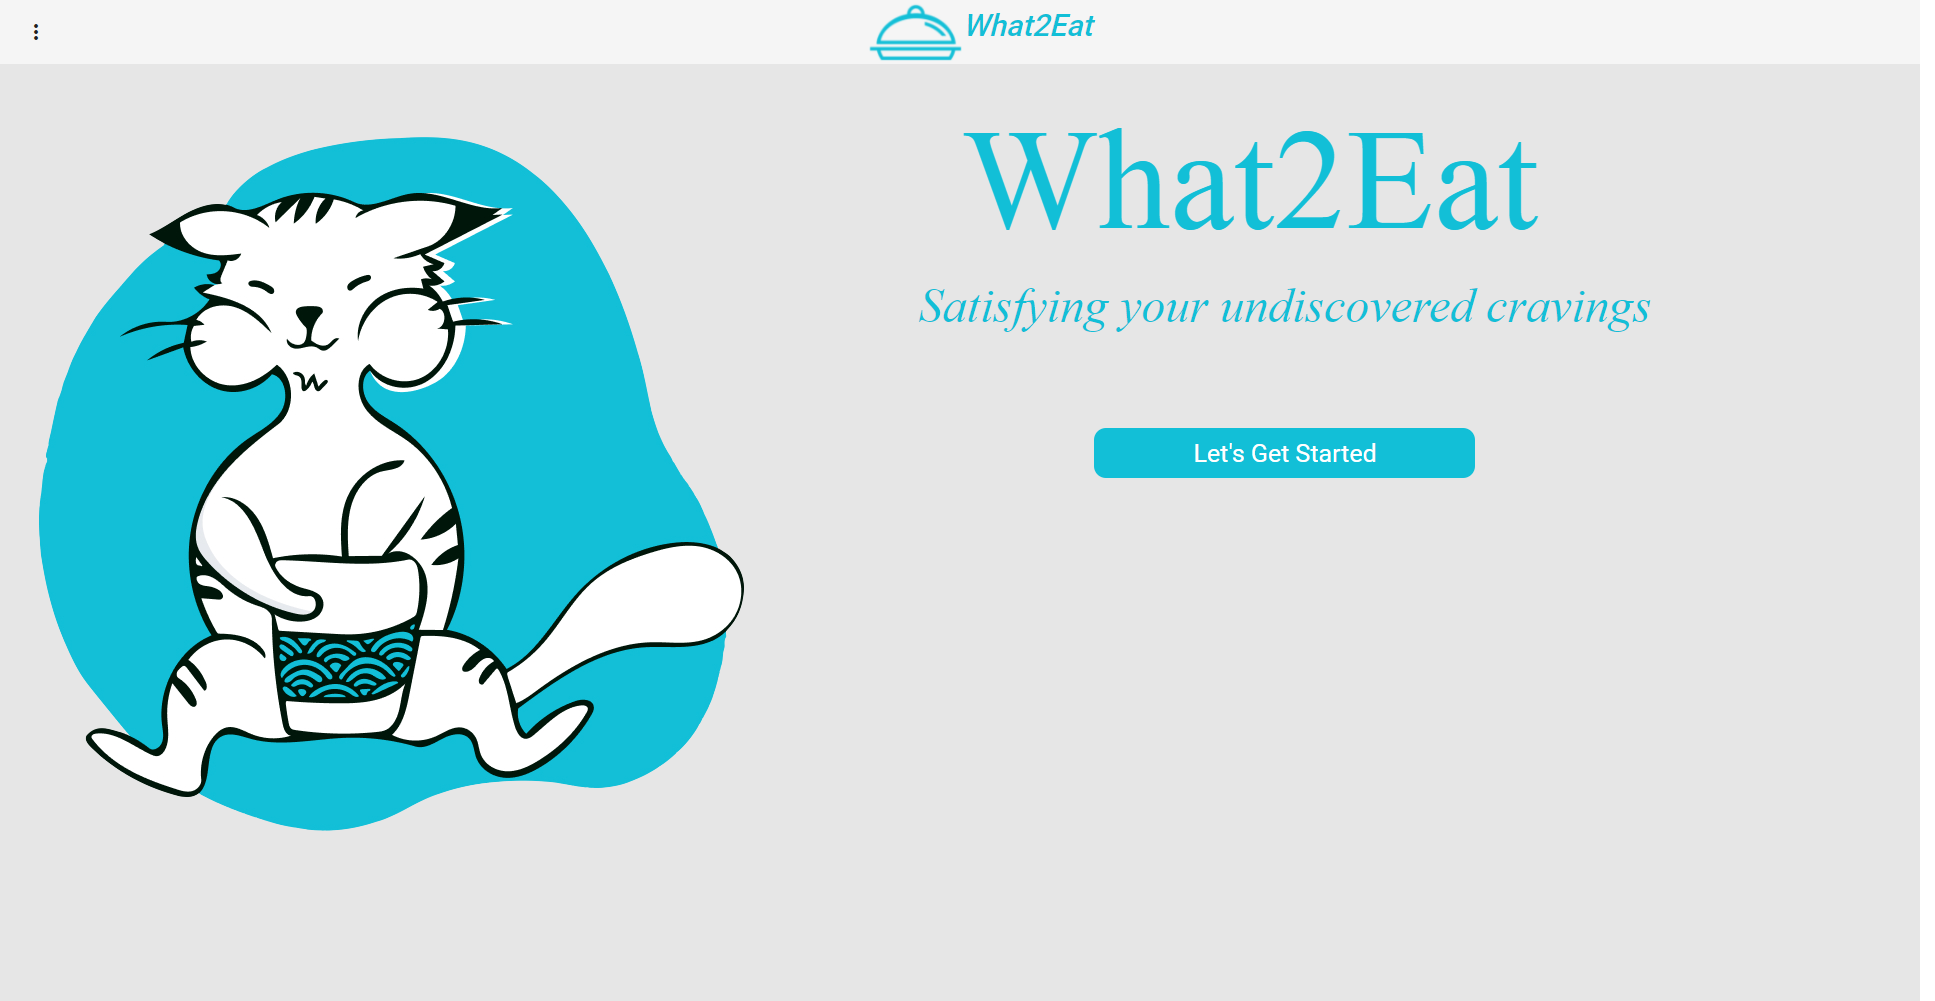
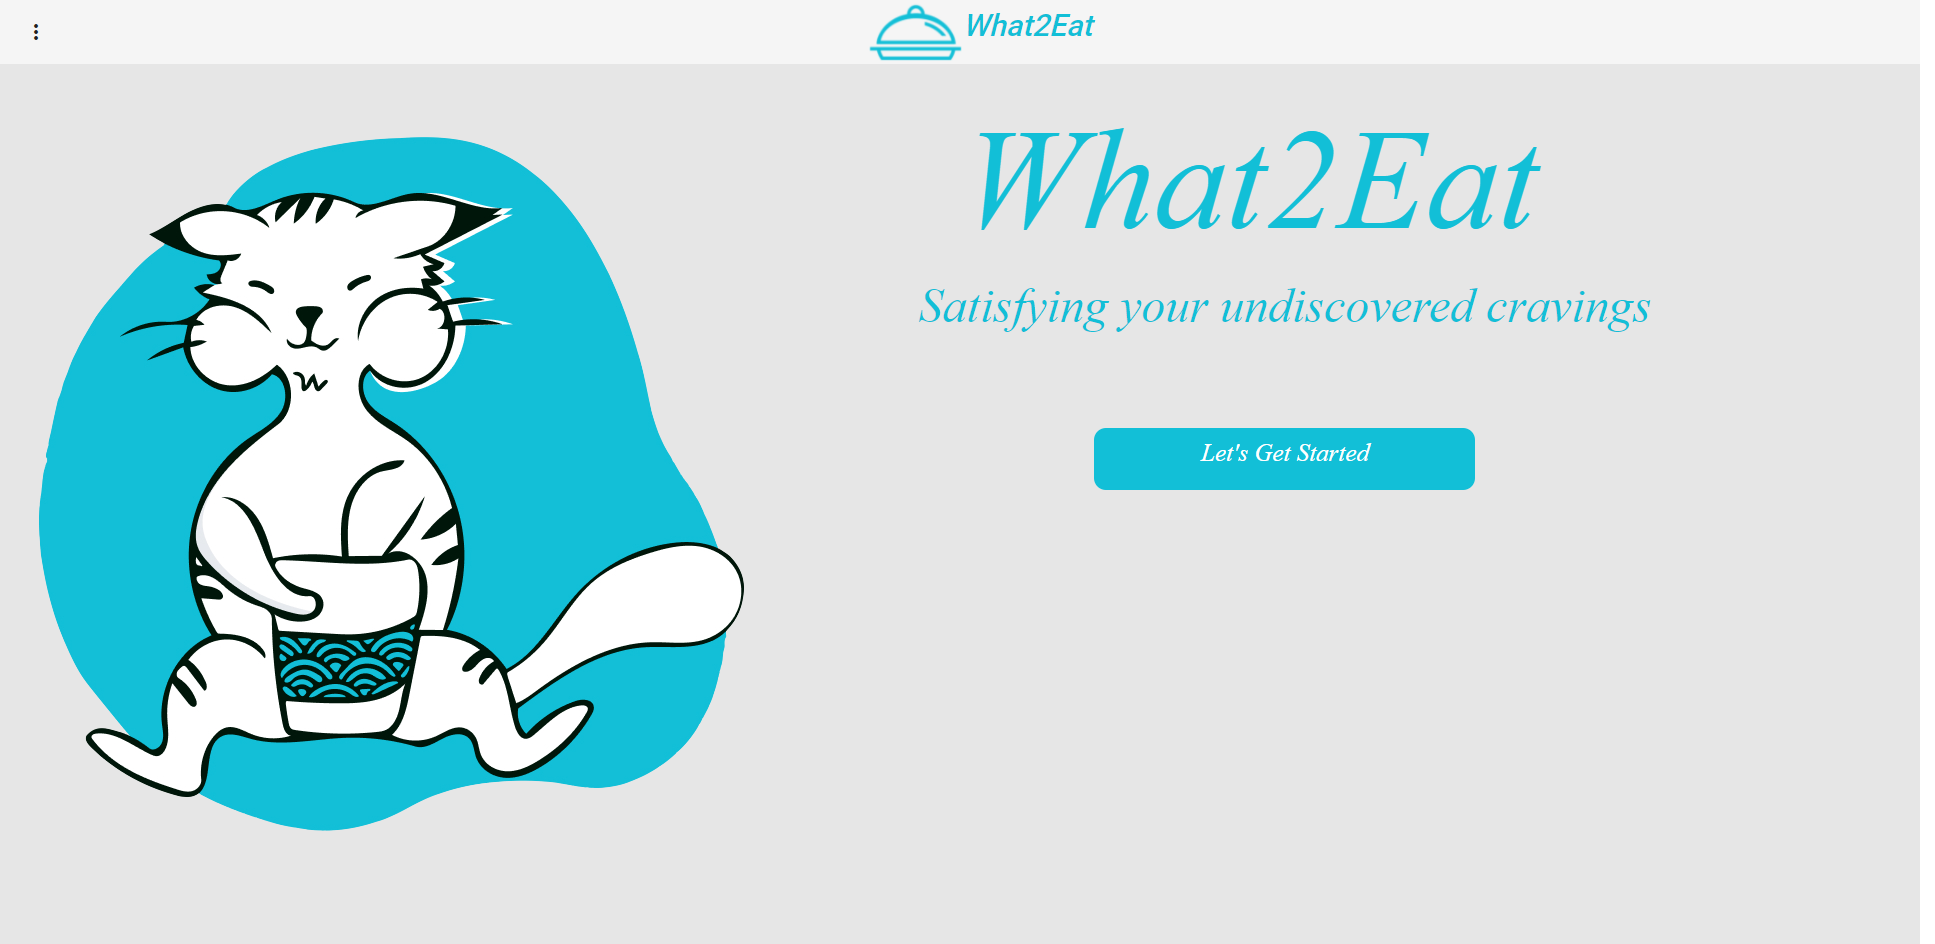
update front page

diff --git a/frontend/what2eat/src/app/components/front-page/front-page.component.html b/frontend/what2eat/src/app/components/front-page/front-page.component.html
@@ -16,7 +16,7 @@
             <p class = "slogen">Satisfying your undiscovered cravings</p>
             <br/><br/> <br/> <br/> <br/>
             <div style="text-align: center"> 
-                <button class ="button1" (click)="getstarted()">Let's Get Started</button>
+                <button class ="button1" (click)="getstarted()"><p>Let's Get Started</p></button>
                 <!-- <div class="divider"></div> -->
                 <!-- <button class ="button1" (click)="getstarted()">Register</button> -->
             </div>

diff --git a/frontend/what2eat/src/app/components/front-page/front-page.component.css b/frontend/what2eat/src/app/components/front-page/front-page.component.css
@@ -30,7 +30,7 @@
 
 .header{
     font-family: Poppins;
-    font-style: SemiBold;
+    font-style: Italic;
     font-size: 144px;
     text-align: center;
     margin-top: 100px;
@@ -51,6 +51,12 @@
     margin-left: 80px; */
     color: #12BFD7;
 }
+
+p {
+    font-family: Poppins;
+    font-style: Italic;
+}
+
 
 .divider{
     width:5px;
